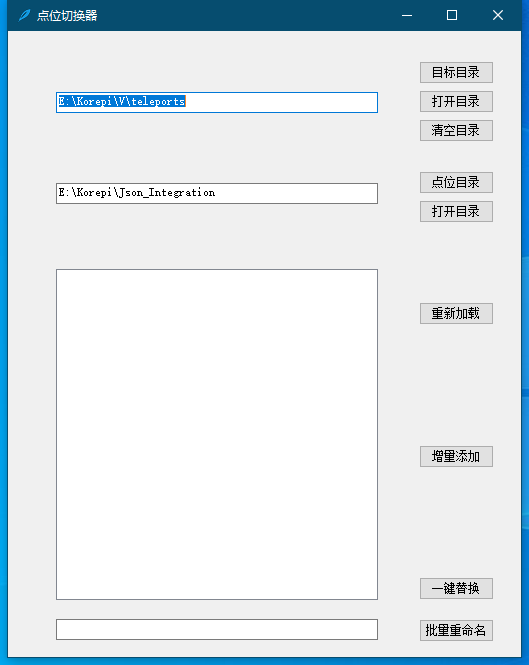
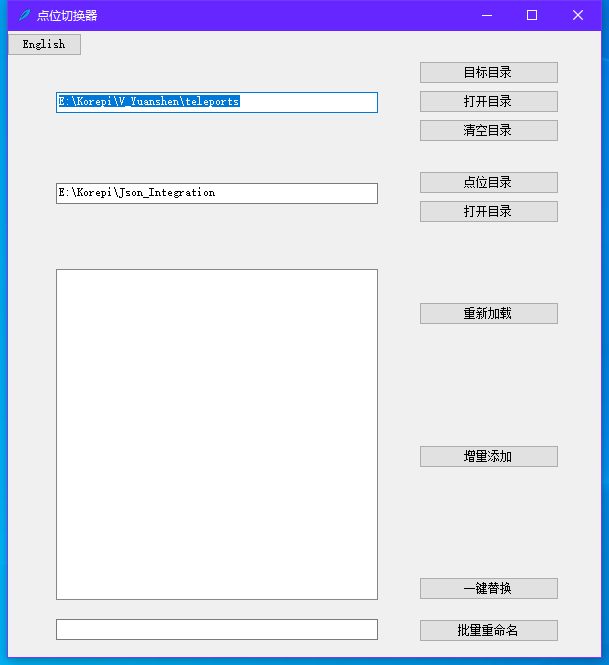
添加图片

diff --git a/README.md b/README.md
@@ -2,17 +2,18 @@
 
 > 适用于Akebi/Korepi使用的点位选择器 
 
-> Json_Integration点位[Json_Integration ](https://github.com/Xcating/Json_Integration) 
+> Json_Integration点位格式[Json_Integration ] 点位(https://github.com/Xcating/Json_Integration) 
 
-> Teyvat_TP_Json点位
+> Teyvat_TP_Json点位格式[Teyvat_TP_Json ]https://github.com/chiqingsan/Teyvat_TP_Json
 
 ## Introduction
 
 [PointSwitch](README.md) 
 
+
 ![image](https://github.com/zfonlyone/PointSwitch/blob/main/IMG/1.png)
 
-
+![image](https://github.com/zfonlyone/PointSwitch/blob/main/IMG/2.png)
 
 
 
@@ -37,7 +38,7 @@
 
 
 
-## warning
+## Warning
 - 一键替换将删除目标文件夹里所有文件，请做好备份
 - 批量重命名将修改选择文件夹里所有json文件
 - 替换操作会将选择文件夹子目录文件复制到同一级目录中注意避免同名文件冲突
